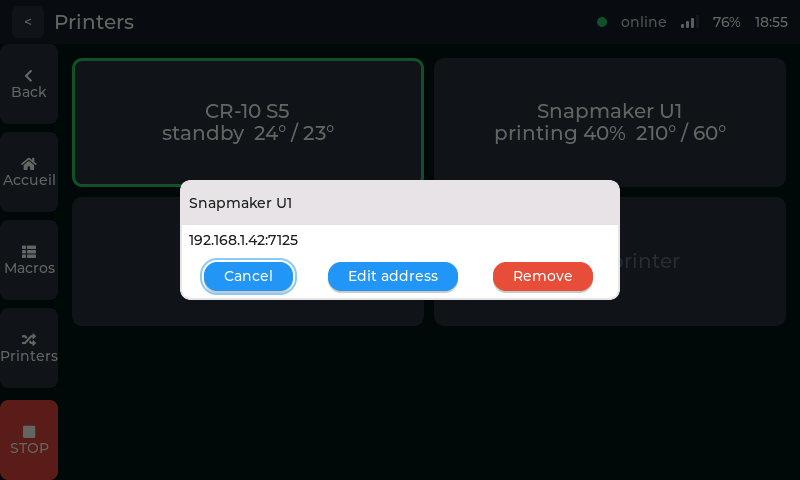
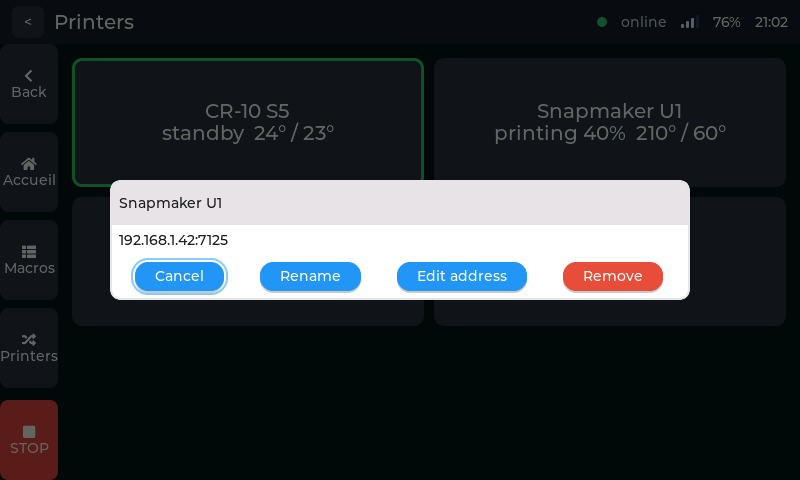
feat(parc): renommer une imprimante depuis le meme menu d'appui long
Troisieme action de la tuile, a cote de "Edit address" et "Remove". Le nom
n'etait fixe qu'a l'ajout et n'etait modifiable nulle part.

- confirmation_ouvrir_choix() accepte un TROISIEME libelle (NULL = deux
  actions comme avant). `destructif_b` devient `destructif_dernier` : c'est
  la derniere action presente qui est rouge, jamais une intermediaire.

- La boite s'elargit a 580 px des qu'il y a trois actions. Mesure faite sur
  docs/captures/parc-actions.png : trois boutons consommaient ~357 px des
  440 disponibles, un quatrieme en demandait ~472 -- ca aurait deborde.
  Verifie apres coup : boite 110..689, les quatre boutons tiennent.

- Le nom est un simple libelle d'affichage : aucun pendant dans les
  reglages de boot, donc rien d'autre a ecrire, meme pour l'entree active
  (contrairement a l'adresse).

- Troncature a PARC_NOM_MAX (24) SIGNALEE -- "Renamed (name shortened)"
  plutot qu'un nom ampute sans explication. snprintf en "%.*s" et non "%s" :
  ESP-IDF compile avec -Werror=format-truncation, qui refuse (a juste titre)
  une source non bornee vers un champ plus court.

- POST /parc-nom?i=N, pendant de /parc-hote et /parc-supprimer.

Gates : host-test 4405 verifications / 0 echec, pytest 66 passed, build
ESP-IDF vert. Le cablage d'ecran reste sans test unitaire (pas de harnais
d'ecran pour ecran_parc) : verifie par capture.

Claude-Session: https://claude.ai/code/session_01Nyhcd4oxnZSbneKtV5Pt6y

Changed region(s): [[0.125, 0.375, 0.875, 0.625], [0.9375, 0.0312, 1.0, 0.0625]]

diff --git a/host-test/tests/test_clavier.c b/host-test/tests/test_clavier.c
@@ -474,7 +474,7 @@ static void section_confirmation_choix(void)
        l'annulation en premier, puis les actions dans l'ordre des libelles. */
     memset(&g_trace_choix, 0, sizeof(g_trace_choix));
     confirmation_ouvrir_choix("CR-10 S5", "192.168.1.41:7125",
-                              "Edit address", "Remove", true, rappel_choix, NULL);
+                              "Edit address", "Remove", NULL, true, rappel_choix, NULL);
     lv_obj_t *mbox = dernier_msgbox();
     VERIFIER(mbox != NULL);
     lv_obj_t *pied = lv_msgbox_get_footer(mbox);
@@ -501,7 +501,7 @@ static void section_confirmation_choix(void)
     /* Premiere action -> 0. */
     memset(&g_trace_choix, 0, sizeof(g_trace_choix));
     confirmation_ouvrir_choix("CR-10 S5", "192.168.1.41:7125",
-                              "Edit address", "Remove", true, rappel_choix, NULL);
+                              "Edit address", "Remove", NULL, true, rappel_choix, NULL);
     pied = lv_msgbox_get_footer(dernier_msgbox());
     lv_obj_send_event(lv_obj_get_child(pied, 1), LV_EVENT_CLICKED, NULL);
     /* Destruction seulement PROGRAMMEE, comme le dialogue ordinaire. */
@@ -513,7 +513,7 @@ static void section_confirmation_choix(void)
     /* Seconde action -> 1. */
     memset(&g_trace_choix, 0, sizeof(g_trace_choix));
     confirmation_ouvrir_choix("CR-10 S5", "192.168.1.41:7125",
-                              "Edit address", "Remove", true, rappel_choix, NULL);
+                              "Edit address", "Remove", NULL, true, rappel_choix, NULL);
     pied = lv_msgbox_get_footer(dernier_msgbox());
     lv_obj_send_event(lv_obj_get_child(pied, 2), LV_EVENT_CLICKED, NULL);
     lv_timer_handler();
@@ -523,7 +523,7 @@ static void section_confirmation_choix(void)
     /* Deux clics avant pompage : un seul rappel (meme garde de reentrance que
        le dialogue ordinaire). */
     memset(&g_trace_choix, 0, sizeof(g_trace_choix));
-    confirmation_ouvrir_choix("X", "y", "A", "B", false, rappel_choix, NULL);
+    confirmation_ouvrir_choix("X", "y", "A", "B", NULL, false, rappel_choix, NULL);
     pied = lv_msgbox_get_footer(dernier_msgbox());
     lv_obj_send_event(lv_obj_get_child(pied, 2), LV_EVENT_CLICKED, NULL);
     lv_obj_send_event(lv_obj_get_child(pied, 2), LV_EVENT_CLICKED, NULL);
@@ -532,8 +532,8 @@ static void section_confirmation_choix(void)
 
     /* Un dialogue de choix bloque un second dialogue, comme l'ordinaire. */
     memset(&g_trace_choix, 0, sizeof(g_trace_choix));
-    confirmation_ouvrir_choix("X", "y", "A", "B", false, rappel_choix, NULL);
-    confirmation_ouvrir_choix("Z", "w", "C", "D", false, rappel_choix, NULL);
+    confirmation_ouvrir_choix("X", "y", "A", "B", NULL, false, rappel_choix, NULL);
+    confirmation_ouvrir_choix("Z", "w", "C", "D", NULL, false, rappel_choix, NULL);
     VERIFIER(lv_obj_get_child_count(lv_layer_top()) == 1);
     VERIFIER(confirmation_est_ouverte());
     pied = lv_msgbox_get_footer(dernier_msgbox());
@@ -541,6 +541,50 @@ static void section_confirmation_choix(void)
     lv_timer_handler();
     VERIFIER(g_trace_choix.appels == 1);
     VERIFIER(!confirmation_est_ouverte());
+
+    /* --- TROIS actions (renommage du parc, 2026-08-16) -------------------
+     * `libelle_c` non NUL ajoute un quatrieme bouton. `destructif_dernier`
+     * porte alors sur la TROISIEME action, pas la deuxieme : c'est toujours
+     * la derniere qui est l'action dangereuse ("Remove"). */
+    memset(&g_trace_choix, 0, sizeof(g_trace_choix));
+    confirmation_ouvrir_choix("Snapmaker U1", "192.168.1.42:7125",
+                              "Rename", "Edit address", "Remove", true, rappel_choix, NULL);
+    mbox = dernier_msgbox();
+    pied = lv_msgbox_get_footer(mbox);
+    VERIFIER(lv_obj_get_child_count(pied) == 4);
+
+    /* La boite s'elargit : les quatre boutons ne tiennent pas dans les 440 px
+     * qui suffisent a trois (mesure faite sur docs/captures/parc-actions.png :
+     * ~357 px de boutons + ecarts pour trois, ~472 pour quatre). */
+    VERIFIER(lv_obj_get_style_width(mbox, 0) > 440);
+
+    VERIFIER(lv_color_eq(lv_obj_get_style_bg_color(lv_obj_get_child(pied, 3), 0),
+                         lv_color_hex(0xE74C3C)));
+    VERIFIER(!lv_color_eq(lv_obj_get_style_bg_color(lv_obj_get_child(pied, 2), 0),
+                          lv_color_hex(0xE74C3C)));
+
+    /* Troisieme action -> 2. */
+    lv_obj_send_event(lv_obj_get_child(pied, 3), LV_EVENT_CLICKED, NULL);
+    lv_timer_handler();
+    VERIFIER(g_trace_choix.appels == 1);
+    VERIFIER(g_trace_choix.dernier_choix == 2);
+
+    /* Premiere action d'un dialogue a trois -> 0 (le renommage). */
+    memset(&g_trace_choix, 0, sizeof(g_trace_choix));
+    confirmation_ouvrir_choix("Snapmaker U1", "192.168.1.42:7125",
+                              "Rename", "Edit address", "Remove", true, rappel_choix, NULL);
+    pied = lv_msgbox_get_footer(dernier_msgbox());
+    lv_obj_send_event(lv_obj_get_child(pied, 1), LV_EVENT_CLICKED, NULL);
+    lv_timer_handler();
+    VERIFIER(g_trace_choix.dernier_choix == 0);
+
+    /* Deux actions : la boite garde sa largeur d'origine. */
+    memset(&g_trace_choix, 0, sizeof(g_trace_choix));
+    confirmation_ouvrir_choix("X", "y", "A", "B", NULL, false, rappel_choix, NULL);
+    VERIFIER(lv_obj_get_style_width(dernier_msgbox(), 0) == 440);
+    pied = lv_msgbox_get_footer(dernier_msgbox());
+    lv_obj_send_event(lv_obj_get_child(pied, 0), LV_EVENT_CLICKED, NULL);
+    lv_timer_handler();
 }
 
 void suite_clavier(void)

diff --git a/firmware/main/ui/widgets/confirmation.c b/firmware/main/ui/widgets/confirmation.c
@@ -34,6 +34,9 @@ static const char *TAG = "confirmation";
  * tout en restant nettement plus étroite que l'écran (800 px) pour qu'un
  * dialogue reste visuellement une boîte, pas une pleine page. */
 #define LARGEUR_MIN_BOITE 440
+/* Largeur d'une boite portant TROIS actions (donc quatre boutons) : les 440 px
+ * ci-dessus n'en accueillent que trois -- voir confirmation_ouvrir_choix(). */
+#define LARGEUR_BOITE_3_ACTIONS 580
 
 /* Écart horizontal explicite entre les deux boutons du pied, EN PLUS de la
  * largeur minimale ci-dessus : SPACE_EVENLY seul dégénère à un écart nul dès
@@ -195,7 +198,8 @@ void confirmation_ouvrir_ex(const char *titre, const char *message,
 
 void confirmation_ouvrir_choix(const char *titre, const char *message,
                                const char *libelle_a, const char *libelle_b,
-                               bool destructif_b,
+                               const char *libelle_c,
+                               bool destructif_dernier,
                                confirmation_choix_rappel_t rappel, void *contexte)
 {
     if (rappel == NULL) {
@@ -211,7 +215,11 @@ void confirmation_ouvrir_choix(const char *titre, const char *message,
        pour le pourquoi de chaque etape (largeur minimale posee avant le
        centrage, fond assombri explicitement contre le theme LVGL). */
     g_confirmation.mbox = lv_msgbox_create(NULL);
-    lv_obj_set_width(g_confirmation.mbox, LARGEUR_MIN_BOITE);
+    /* Quatre boutons ne tiennent pas dans la largeur qui en accueille trois
+       (mesure sur docs/captures/parc-actions.png : ~357 px de boutons et
+       d'ecarts pour trois, ~472 pour quatre, dans une boite de 440). */
+    lv_obj_set_width(g_confirmation.mbox,
+                     libelle_c != NULL ? LARGEUR_BOITE_3_ACTIONS : LARGEUR_MIN_BOITE);
 
     lv_obj_t *fond = lv_obj_get_parent(g_confirmation.mbox);
     lv_obj_set_style_bg_color(fond, lv_color_hex(0x000000), 0);
@@ -220,7 +228,7 @@ void confirmation_ouvrir_choix(const char *titre, const char *message,
     lv_msgbox_add_title(g_confirmation.mbox, titre != NULL ? titre : "");
     lv_msgbox_add_text(g_confirmation.mbox, message != NULL ? message : "");
 
-    /* Ordre du pied : [0] Cancel, [1] libelle_a, [2] libelle_b -- contrat
+    /* Ordre du pied : [0] Cancel, [1] libelle_a, [2] libelle_b, [3] libelle_c -- contrat
        public (voir confirmation.h) sur lequel test_clavier.c s'appuie pour
        retrouver les boutons. */
     lv_obj_t *bouton_annuler = lv_msgbox_add_footer_button(g_confirmation.mbox, "Cancel");
@@ -234,10 +242,19 @@ void confirmation_ouvrir_choix(const char *titre, const char *message,
         lv_msgbox_add_footer_button(g_confirmation.mbox, libelle_b != NULL ? libelle_b : "");
     lv_obj_add_event_cb(bouton_b, bouton_choix_cb, LV_EVENT_CLICKED, (void *)(intptr_t)1);
 
+    /* Derniere action presente : c'est ELLE que `destructif_dernier` colore,
+       jamais une action intermediaire. */
+    lv_obj_t *bouton_dernier = bouton_b;
+    if (libelle_c != NULL) {
+        lv_obj_t *bouton_c = lv_msgbox_add_footer_button(g_confirmation.mbox, libelle_c);
+        lv_obj_add_event_cb(bouton_c, bouton_choix_cb, LV_EVENT_CLICKED, (void *)(intptr_t)2);
+        bouton_dernier = bouton_c;
+    }
+
     lv_obj_set_style_pad_column(lv_obj_get_parent(bouton_annuler), ECART_BOUTONS_PIED, 0);
 
-    if (destructif_b) {
-        lv_obj_set_style_bg_color(bouton_b, lv_color_hex(COULEUR_ROUGE_DESTRUCTIF), 0);
+    if (destructif_dernier) {
+        lv_obj_set_style_bg_color(bouton_dernier, lv_color_hex(COULEUR_ROUGE_DESTRUCTIF), 0);
         /* Mise en avant posee sur l'ANNULATION, jamais sur l'action
            destructive -- meme regle et meme raison que confirmation_ouvrir_ex(). */
         lv_obj_add_state(bouton_annuler, LV_STATE_FOCUS_KEY);

diff --git a/firmware/main/web.c b/firmware/main/web.c
@@ -620,6 +620,56 @@ static esp_err_t gestion_parc_hote(httpd_req_t *req)
     return httpd_resp_sendstr(req, "ok -- redemarrer pour appliquer si entree active\n");
 }
 
+/* POST /parc-nom?i=N : renomme l'entrée N du parc (corps de requête = le
+ * nouveau nom). Pendant de /parc-hote. Le nom n'est qu'un libellé d'affichage
+ * -- aucun pendant dans les réglages de boot, donc rien d'autre à écrire, même
+ * pour l'entrée active. Tronqué à PARC_NOM_MAX-1 par snprintf, et la réponse
+ * le DIT plutôt que de laisser croire que le nom est passé entier. */
+static esp_err_t gestion_parc_nom(httpd_req_t *req)
+{
+    char parametre[8] = "";
+    char requete[32];
+    if (httpd_req_get_url_query_str(req, requete, sizeof(requete)) == ESP_OK) {
+        (void)httpd_query_key_value(requete, "i", parametre, sizeof(parametre));
+    }
+    int indice = (parametre[0] != '\0') ? atoi(parametre) : -1;
+
+    char corps[96];
+    int longueur = httpd_req_recv(req, corps, sizeof(corps) - 1);
+    if (longueur <= 0) {
+        httpd_resp_set_status(req, "400 Bad Request");
+        return httpd_resp_sendstr(req, "corps attendu : nouveau nom\n");
+    }
+    corps[longueur] = '\0';
+    while (longueur > 0 && (corps[longueur - 1] == '\n' || corps[longueur - 1] == '\r')) {
+        corps[--longueur] = '\0';
+    }
+    if (corps[0] == '\0') {
+        httpd_resp_set_status(req, "400 Bad Request");
+        return httpd_resp_sendstr(req, "nom vide refuse\n");
+    }
+
+    parc_config_t config;
+    parc_config_lire(&config);
+    if (indice < 0 || indice >= (int)config.nb) {
+        httpd_resp_set_status(req, "400 Bad Request");
+        return httpd_resp_sendstr(req, "parametre i invalide (0..nb-1)\n");
+    }
+
+    bool tronque = (strlen(corps) >= PARC_NOM_MAX);
+    /* "%.*s" borne explicitement la source, pas seulement la destination : un
+       "%s" nu declenche -Werror=format-truncation (le compilateur voit un
+       corps de 96 octets vers un champ de 24). La troncature est VOULUE ici,
+       autant l'ecrire. */
+    snprintf(config.entrees[indice].nom, PARC_NOM_MAX, "%.*s", PARC_NOM_MAX - 1, corps);
+    if (parc_config_definir(&config) != ESP_OK) {
+        return httpd_resp_send_500(req);
+    }
+    JOURNAL_INFO(TAG, "parc-nom : entree %d -> %s%s", indice,
+                 config.entrees[indice].nom, tronque ? " (tronque)" : "");
+    return httpd_resp_sendstr(req, tronque ? "ok -- nom tronque\n" : "ok\n");
+}
+
 /* POST /parc-supprimer?i=N : retire l'entrée N du parc. Pendant de
  * /parc-hote ci-dessus, née le 2026-08-16 en même temps que l'appui long sur
  * une tuile : avant, RIEN ne pouvait décrémenter `nb`, et un parc arrivé à
@@ -1212,6 +1262,9 @@ esp_err_t web_start(void)
     static const httpd_uri_t route_parc_hote = {
         .uri = "/parc-hote", .method = HTTP_POST, .handler = gestion_parc_hote, .user_ctx = NULL,
     };
+    static const httpd_uri_t route_parc_nom = {
+        .uri = "/parc-nom", .method = HTTP_POST, .handler = gestion_parc_nom, .user_ctx = NULL,
+    };
     static const httpd_uri_t route_parc_supprimer = {
         .uri = "/parc-supprimer", .method = HTTP_POST, .handler = gestion_parc_supprimer, .user_ctx = NULL,
     };
@@ -1235,6 +1288,7 @@ esp_err_t web_start(void)
 #if CONFIG_ESP_COREDUMP_ENABLE_TO_FLASH
     enregistrer_route(serveur, &route_parc);
     enregistrer_route(serveur, &route_parc_hote);
+    enregistrer_route(serveur, &route_parc_nom);
     enregistrer_route(serveur, &route_parc_supprimer);
     enregistrer_route(serveur, &route_coredump);
 #endif

diff --git a/firmware/main/ui/widgets/confirmation.h b/firmware/main/ui/widgets/confirmation.h
@@ -70,32 +70,42 @@ void confirmation_ouvrir(const char *titre, const char *message,
  * ne nomme pourtant toujours pas. */
 bool confirmation_est_ouverte(void);
 
-/* Rappel d'un dialogue à DEUX actions : `choix` vaut -1 (annulation), 0
- * (première action, `libelle_a`) ou 1 (seconde action, `libelle_b`). */
+/* Rappel d'un dialogue à plusieurs actions : `choix` vaut -1 (annulation) ou
+ * l'indice de l'action retenue -- 0 pour `libelle_a`, 1 pour `libelle_b`,
+ * 2 pour `libelle_c`. */
 typedef void (*confirmation_choix_rappel_t)(int choix, void *contexte);
 
-/* Ouvre un dialogue à TROIS issues : deux actions nommées plus une annulation
- * fixe libellée "Cancel". Même modale, même singleton et mêmes garanties que
+/* Ouvre un dialogue à DEUX ou TROIS actions nommées, plus une annulation fixe
+ * libellée "Cancel". Même modale, même singleton et mêmes garanties que
  * confirmation_ouvrir_ex() ci-dessus (un seul dialogue à la fois, fermeture
  * asynchrone, garde de réentrance) -- seul le nombre de boutons change.
  *
- * Existe pour les tuiles du parc d'imprimantes, qui offrent trois issues sur
- * un appui long (éditer l'adresse / retirer / ne rien faire) ; le dialogue à
- * deux issues ne pouvait pas les porter.
+ * Existe pour les tuiles du parc d'imprimantes, qui offrent plusieurs issues
+ * sur un appui long (renommer / éditer l'adresse / retirer / ne rien faire) ;
+ * le dialogue à deux issues ne pouvait pas les porter.
+ *
+ * `libelle_c` NULL : dialogue à deux actions (trois boutons). Non NUL : une
+ * troisième action, donc quatre boutons -- et la boîte s'élargit, quatre
+ * boutons ne tenant pas dans la largeur qui en accueille trois (voir
+ * LARGEUR_MIN_BOITE / LARGEUR_BOITE_3_ACTIONS dans le .c).
  *
  * Ordre des boutons dans le pied, identique au dialogue ordinaire :
- * [0] Cancel, [1] `libelle_a`, [2] `libelle_b`.
+ * [0] Cancel, [1] `libelle_a`, [2] `libelle_b`, [3] `libelle_c` si présent.
  *
- * `destructif_b` vrai colore en rouge la SEULE seconde action et lui refuse
- * tout état "par défaut" -- même règle, et même raison, que `destructif` de
- * confirmation_ouvrir_ex(). La première action n'est jamais destructive : si
- * les deux l'étaient, le dialogue n'aurait pas d'issue sûre.
+ * `destructif_dernier` vrai colore en rouge la DERNIÈRE action présente
+ * (`libelle_c` s'il existe, sinon `libelle_b`) et lui refuse tout état "par
+ * défaut" -- même règle, et même raison, que `destructif` de
+ * confirmation_ouvrir_ex(). Les actions précédentes ne sont jamais
+ * destructives : si plusieurs l'étaient, le dialogue n'aurait pas d'issue
+ * sûre évidente.
  *
- * NULL pour un paramètre texte est traité comme chaîne vide, même politique
- * que le reste de ui/. */
+ * NULL pour `titre`/`message`/`libelle_a`/`libelle_b` est traité comme chaîne
+ * vide, même politique que le reste de ui/ -- `libelle_c` NULL, lui, est
+ * SIGNIFIANT (pas de troisième action), jamais une chaîne vide. */
 void confirmation_ouvrir_choix(const char *titre, const char *message,
                                const char *libelle_a, const char *libelle_b,
-                               bool destructif_b,
+                               const char *libelle_c,
+                               bool destructif_dernier,
                                confirmation_choix_rappel_t rappel, void *contexte);
 
 /* Fermeture : les deux boutons de pied sont les SEULES sorties. Un

diff --git a/firmware/main/apps/klipper/ecrans/ecran_parc.c b/firmware/main/apps/klipper/ecrans/ecran_parc.c
@@ -182,6 +182,37 @@ static void rappel_editer_adresse(const char *valeur, void *contexte)
     habillage_notifier("Address saved", false);
 }
 
+/* Renommage : le nom n'est qu'un libelle d'affichage, il n'a AUCUN pendant
+ * dans les reglages de boot (contrairement a l'adresse) -- rien d'autre a
+ * ecrire, et le cas "imprimante active" ne se pose pas. */
+static void rappel_renommer(const char *valeur, void *contexte)
+{
+    ecran_parc_ctx_t *ctx = contexte;
+    if (ctx == NULL || valeur == NULL || valeur[0] == '\0') {
+        return; /* annule/vide : abandon silencieux, comme partout */
+    }
+
+    parc_config_t config;
+    parc_config_lire(&config);
+    uint8_t indice = ctx->indice_attente;
+    if (indice >= config.nb) {
+        return; /* la config a change sous le clavier */
+    }
+    /* Troncature SIGNALEE, jamais silencieuse : PARC_NOM_MAX vaut 24 et le
+       clavier accepte davantage -- sans ce message l'utilisateur verrait son
+       nom ampute sans comprendre pourquoi. */
+    bool tronque = (strlen(valeur) >= PARC_NOM_MAX);
+    /* "%.*s" borne la SOURCE en plus de la destination : un "%s" nu declenche
+       -Werror=format-truncation cote ESP-IDF (valeur peut faire
+       CLAVIER_VALEUR_MAX octets, le champ 24). Troncature voulue, ecrite. */
+    snprintf(config.entrees[indice].nom, PARC_NOM_MAX, "%.*s", PARC_NOM_MAX - 1, valeur);
+    if (parc_config_definir(&config) != ESP_OK) {
+        habillage_notifier("Rename failed (store unavailable)", true);
+        return;
+    }
+    habillage_notifier(tronque ? "Renamed (name shortened)" : "Renamed", tronque);
+}
+
 static void rappel_action_tuile(int choix, void *contexte)
 {
     ecran_parc_ctx_t *ctx = contexte;
@@ -196,6 +227,13 @@ static void rappel_action_tuile(int choix, void *contexte)
     }
 
     if (choix == 0) {
+        /* Renommer : clavier preverni du nom courant. */
+        clavier_ouvrir("Printer name", config.entrees[indice].nom, CLAVIER_TEXTE,
+                       rappel_renommer, ctx);
+        return;
+    }
+
+    if (choix == 1) {
         /* Editer l'adresse : clavier preverni de la valeur courante, meme
            format "adresse:port" que celui qu'attend ecran_configuration_valider(). */
         char courant[BACKEND_HOTE_LONGUEUR_MAX + 8];
@@ -243,8 +281,8 @@ static void tuile_long_cb(lv_event_t *e)
              ctx->config.entrees[indice].hote.adresse,
              (unsigned)ctx->config.entrees[indice].hote.port);
     confirmation_ouvrir_choix(ctx->config.entrees[indice].nom, message,
-                              "Edit address", "Remove", /*destructif_b=*/true,
-                              rappel_action_tuile, ctx);
+                              "Rename", "Edit address", "Remove",
+                              /*destructif_dernier=*/true, rappel_action_tuile, ctx);
 }
 
 /* --- ajout d'une imprimante (clavier nom puis adresse) ------------------- */

diff --git a/simulateur/main.c b/simulateur/main.c
@@ -980,7 +980,7 @@ int main(int argc, char **argv)
          * qui n'est PAS active -- l'active refuse le retrait. */
         if (parc_actions) {
             confirmation_ouvrir_choix("Snapmaker U1", "192.168.1.42:7125",
-                                      "Edit address", "Remove", true,
+                                      "Rename", "Edit address", "Remove", true,
                                       demo_choix_rappel, NULL);
         }
 

diff --git a/README.md b/README.md
@@ -108,7 +108,7 @@ mentir après une évolution de l'interface.
 | | | |
 |:-:|:-:|:-:|
 | ![Clavier texte](docs/captures/clavier-texte.png)<br>**Clavier texte** — saisie d'adresse | ![Pavé numérique](docs/captures/clavier-temperature.png)<br>**Pavé numérique** — consigne de température | ![Confirmation](docs/captures/confirmation.png)<br>**Confirmation destructive** — annulation d'impression |
-| ![Confirmation de homing](docs/captures/homing-confirmation.png)<br>**Confirmation de homing** — axe déjà référencé | ![Saisie au premier démarrage](docs/captures/premier-demarrage-saisie.png)<br>**Saisie de l'hôte** — au premier démarrage | ![Actions sur une tuile](docs/captures/parc-actions.png)<br>**Actions sur une imprimante** — appui long : éditer l'adresse ou retirer |
+| ![Confirmation de homing](docs/captures/homing-confirmation.png)<br>**Confirmation de homing** — axe déjà référencé | ![Saisie au premier démarrage](docs/captures/premier-demarrage-saisie.png)<br>**Saisie de l'hôte** — au premier démarrage | ![Actions sur une tuile](docs/captures/parc-actions.png)<br>**Actions sur une imprimante** — appui long : renommer, éditer l'adresse ou retirer |
 
 ## Comment ce firmware peut être réversible sans câble
 

diff --git a/README.en.md b/README.en.md
@@ -106,7 +106,7 @@ going stale after an interface change.
 | | | |
 |:-:|:-:|:-:|
 | ![Text keyboard](docs/captures/clavier-texte.png)<br>**Text keyboard** — host address entry | ![Numeric keypad](docs/captures/clavier-temperature.png)<br>**Numeric keypad** — temperature target | ![Confirmation](docs/captures/confirmation.png)<br>**Destructive confirmation** — cancelling a print |
-| ![Homing confirmation](docs/captures/homing-confirmation.png)<br>**Homing confirmation** — axis already homed | ![First-boot entry](docs/captures/premier-demarrage-saisie.png)<br>**Host entry** — at first boot | ![Printer tile actions](docs/captures/parc-actions.png)<br>**Printer actions** — long press: edit the address or remove |
+| ![Homing confirmation](docs/captures/homing-confirmation.png)<br>**Homing confirmation** — axis already homed | ![First-boot entry](docs/captures/premier-demarrage-saisie.png)<br>**Host entry** — at first boot | ![Printer tile actions](docs/captures/parc-actions.png)<br>**Printer actions** — long press: rename, edit the address or remove |
 
 ## How this firmware can be reversible without a cable
 
